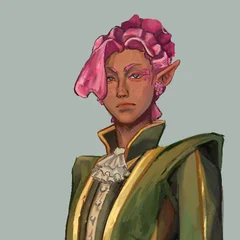
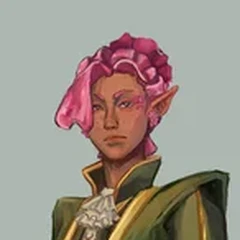
Today card themed per character with its own bubble shape; random special moves; Binko bumps the speaker on Start; centered face shots with room around glows
Claude-Session: https://claude.ai/code/session_01MgyEN5Y9kzfVBp6PVUZ3oZ

diff --git a/index.html b/index.html
@@ -320,7 +320,6 @@ details>summary{cursor:pointer}
 .c-green .cface{animation:cl-breathe 4.2s ease-in-out infinite}
 .c-green .cface .art.face{border-color:#c9a24a}
 .c-green .fx{inset:-7px;border-radius:50%;border:2px solid rgba(240,200,90,.55);animation:cl-halo 4.2s ease-in-out infinite}
-.c-green .bubble{background:#1d3626;color:#ece8d6;border-color:#c9a24a;box-shadow:0 3px 0 #0c1a12}.c-green .bubble .who{color:#c99be0}.c-green .bubble b{color:#f0d27a}
 @keyframes cl-breathe{0%,100%{transform:scale(1)}40%{transform:scale(1.05)}82%{transform:scale(1)}86%{transform:scale(1.03) rotate(-3deg)}90%{transform:scale(1) rotate(2deg)}94%{transform:rotate(0)}}
 @keyframes cl-halo{0%,100%{opacity:.35;transform:scale(.96)}45%{opacity:1;transform:scale(1.04)}}
 /* Ollie: fire. Flickering glow and embers rising off him */
@@ -328,14 +327,12 @@ details>summary{cursor:pointer}
 .c-ollie .cface .art.face{border-color:#e8833a}
 .c-ollie .fx,.c-ollie .fx2{bottom:4px;width:10px;height:14px;border-radius:50% 50% 50% 50%/60% 60% 40% 40%;background:radial-gradient(circle at 50% 70%,#ffe08a,#ff8a2b 55%,rgba(230,60,30,0) 72%);z-index:2;animation:cl-ember 1.7s ease-out infinite}
 .c-ollie .fx{left:8px}.c-ollie .fx2{right:6px;animation-delay:.8s;width:8px;height:11px}
-.c-ollie .bubble{background:linear-gradient(160deg,#4a1418,#2c0d10);color:#f8e8dc;border-color:#e0a63e;box-shadow:0 3px 0 #170506,0 0 18px rgba(255,120,40,.18)}.c-ollie .bubble .who{color:#f49ac1}.c-ollie .bubble b{color:#ffc46b}
 @keyframes cl-flicker{0%,100%{filter:drop-shadow(0 0 4px rgba(255,140,40,.5))}30%{filter:drop-shadow(0 0 10px rgba(255,90,30,.8))}55%{filter:drop-shadow(0 0 5px rgba(255,170,60,.55))}75%{filter:drop-shadow(0 0 12px rgba(255,110,30,.85))}}
 @keyframes cl-ember{0%{opacity:0;transform:translateY(0) scale(.6)}15%{opacity:1}100%{opacity:0;transform:translateY(-58px) translateX(6px) scale(.2)}}
 /* Quickare: tips his top hat, and his monocle catches the light */
 .c-quickare .cface{animation:cl-tip 3s ease-in-out infinite;transform-origin:50% 90%}
 .c-quickare .cface .art.face{border-color:#a3263a}
 .c-quickare .fx{left:20px;top:38%;color:#fff6c8;font-style:normal;font-size:13px;z-index:2;opacity:0;animation:cl-glint 3s ease-in-out infinite}.c-quickare .fx::before{content:'✦'}
-.c-quickare .bubble{background:#1e4532;color:#f3ecd8;border-color:#a3263a;box-shadow:0 3px 0 #5e1220}.c-quickare .bubble .who{color:#fff;background:#a3263a;display:table;padding:1px 7px;border-radius:6px;margin-bottom:4px}.c-quickare .bubble b{color:#f2c94c}
 @keyframes cl-tip{0%,60%,100%{transform:rotate(0)}68%{transform:rotate(-10deg) translateY(-3px)}78%{transform:rotate(4deg)}86%{transform:rotate(0)}}
 @keyframes cl-glint{0%,40%,100%{opacity:0;transform:scale(.4)}48%{opacity:1;transform:scale(1.3) rotate(45deg)}56%{opacity:0;transform:scale(.4)}}
 /* Penn: the Echo Bound. His mask leaves a fading echo of itself */
@@ -343,7 +340,6 @@ details>summary{cursor:pointer}
 .c-penn .cface .art.face{border-color:#2a1f1a}
 .c-penn .fx,.c-penn .fx2{inset:0;border-radius:50%;background:var(--face) center/cover;z-index:0;opacity:0;animation:cl-echo 3.6s ease-out infinite}
 .c-penn .fx2{animation-delay:1.8s}
-.c-penn .bubble{background:#ece6da;color:#221a16;border-color:#2a1f1a;box-shadow:0 3px 0 #2a1f1a;border-left:5px solid #8e2b2b}.c-penn .bubble .who{color:#8e2b2b}
 @keyframes cl-still{0%,100%{transform:translateX(0)}50%{transform:translateX(1px)}}
 @keyframes cl-echo{0%{opacity:.5;transform:translate(0,0) scale(1)}100%{opacity:0;transform:translate(16px,-6px) scale(1.12)}}
 /* Captain Triton: rocks like a ship, pipe smoke curling up */
@@ -351,17 +347,134 @@ details>summary{cursor:pointer}
 .c-triton .cface .art.face{border-color:#b08d57}
 .c-triton .fx,.c-triton .fx2{right:4px;top:4px;width:18px;height:18px;border-radius:50%;background:radial-gradient(circle,rgba(150,220,150,.55),rgba(120,190,120,0) 68%);z-index:2;animation:cl-smoke 3.4s ease-out infinite}
 .c-triton .fx2{animation-delay:1.7s;right:10px}
-.c-triton .bubble{background:#27302d;color:#e6e3d6;border-color:#b08d57;box-shadow:0 3px 0 #121816}.c-triton .bubble .who{color:#9fd39b}.c-triton .bubble b{color:#e0bf86}
 @keyframes cl-sway{0%,100%{transform:rotate(-3deg)}50%{transform:rotate(3deg)}}
 @keyframes cl-smoke{0%{opacity:0;transform:translate(0,0) scale(.5)}20%{opacity:.9}100%{opacity:0;transform:translate(-14px,-44px) scale(2.2)}}
 /* Cat: hop, hop, hop on three legs, then a rest */
 .c-cat .cface{animation:cl-hop 2s ease-in-out infinite}
 .c-cat .cface .art.face{border-color:#e8e0cc;background:#6b5240}
 .c-cat .fx{left:50%;bottom:-2px;width:30px;height:8px;margin-left:-15px;border-radius:50%;background:radial-gradient(ellipse,rgba(220,200,170,.6),rgba(220,200,170,0) 70%);z-index:0;animation:cl-dust 2s ease-out infinite}
-.c-cat .bubble{background:#5c4636;color:#f6efe0;border-color:#e8e0cc;box-shadow:0 3px 0 #2e2219}.c-cat .bubble .who{color:#f0e6cf}.c-cat .bubble b{color:#ffd9a0}
 @keyframes cl-hop{0%,75%,100%{transform:translateY(0) rotate(0)}10%{transform:translateY(-10px) rotate(-6deg)}20%{transform:translateY(0) rotate(2deg)}32%{transform:translateY(-10px) rotate(-6deg)}42%{transform:translateY(0) rotate(2deg)}54%{transform:translateY(-10px) rotate(-6deg)}64%{transform:translateY(0) rotate(3deg)}}
 @keyframes cl-dust{0%,18%,40%,62%,100%{opacity:0;transform:scale(.6)}20%,42%,64%{opacity:1;transform:scale(1)}}
 @media (prefers-reduced-motion:reduce){.clover .cface,.clover .cface i{animation:none!important}.clover .cface i{display:none}}
+
+/* ---------- the Today card takes on the look of whoever is talking ---------- */
+.clover{align-items:center}.clover .cface{align-self:center}
+.hero-guide .guide.clover::before{display:none}
+.hero.h-binko,.hero.h-green,.hero.h-ollie,.hero.h-quickare,.hero.h-penn,.hero.h-triton,.hero.h-cat{background:var(--hbg);border-color:var(--hbd);transition:background .4s,border-color .4s}
+.hero[class*=" h-"]::before{background:var(--hstripe);height:6px}
+.hero[class*=" h-"] .btn{background:var(--hbtn);color:var(--hink);box-shadow:0 3px 0 var(--hshadow);border:var(--hbtnbd,0)}
+.hero[class*=" h-"] .label{color:var(--hlabel)}
+.hero[class*=" h-"] .hero-foot{border-top-color:var(--hline);color:var(--hlabel)}
+.hero[class*=" h-"] .bubble .who{margin-bottom:4px}
+/* Binko: a toy robot's screen panel, with rivets in the corners */
+.hero.h-binko{--hbg:linear-gradient(160deg,#1e5550,#163c38 70%);--hbd:#2c6a62;--hstripe:var(--iri);--hbtn:var(--iri);--hink:#1a1a12;--hshadow:#9a5a3a;--hlabel:var(--muted);--hline:#2c6a62}
+.c-binko .bubble{border-radius:18px;border:3px solid #2a9e8c;padding:12px 16px;background:radial-gradient(circle at 9px 9px,#2a9e8c 2.5px,transparent 3.5px),radial-gradient(circle at calc(100% - 9px) 9px,#2a9e8c 2.5px,transparent 3.5px),radial-gradient(circle at 9px calc(100% - 9px),#2a9e8c 2.5px,transparent 3.5px),radial-gradient(circle at calc(100% - 9px) calc(100% - 9px),#2a9e8c 2.5px,transparent 3.5px),#f6f3e6;box-shadow:0 4px 0 #13403a}
+/* Big Green: a big, rounded, scaly hide, gold trim and a purple-scarf stripe */
+.hero.h-green{--hbg:radial-gradient(circle at 85% 0,rgba(201,162,74,.16),transparent 45%),linear-gradient(160deg,#25472f,#132619 75%);--hbd:#8a7232;--hstripe:linear-gradient(90deg,#c9a24a,#8e5bb0 40%,#8e5bb0 60%,#c9a24a);--hbtn:linear-gradient(180deg,#e2c06a,#b98c30);--hink:#1d1407;--hshadow:#5e4412;--hlabel:#a9c3a0;--hline:#3b5a3c}
+.c-green .bubble{border-radius:34px 30px 38px 14px/30px 36px 30px 14px;border:3px solid #c9a24a;padding:14px 18px;color:#ece8d6;background:radial-gradient(circle at 10px 10px,rgba(255,255,255,.035) 7px,transparent 8px) 0 0/22px 18px,radial-gradient(circle at 21px 19px,rgba(255,255,255,.035) 7px,transparent 8px) 0 0/22px 18px,#1d3626;box-shadow:0 5px 0 #0c1a12}
+.c-green .bubble .who{color:#c99be0}.c-green .bubble b{color:#f0d27a}
+/* Ollie: an oleander petal, glowing like an ember */
+.hero.h-ollie{--hbg:radial-gradient(circle at 90% 100%,rgba(255,120,40,.22),transparent 50%),linear-gradient(160deg,#4d1a1e,#250b0e 75%);--hbd:#9b4a2a;--hstripe:linear-gradient(90deg,#ff6a2b,#ffc65c 45%,#f49ac1);--hbtn:linear-gradient(90deg,#ff7e3a,#ffc35c);--hink:#2a0a05;--hshadow:#7c2410;--hlabel:#e9b7a8;--hline:#5e2a26}
+.hero.h-ollie .btn{box-shadow:0 3px 0 #7c2410,0 0 18px rgba(255,140,50,.35)}
+.c-ollie .bubble{border-radius:6px 40px 6px 40px;border:2px solid #e0a63e;padding:14px 20px;color:#f8e8dc;background:linear-gradient(160deg,#5a1a1e,#2c0d10);box-shadow:0 4px 0 #170506,0 0 22px rgba(255,120,40,.2)}
+.c-ollie .bubble .who{color:#f49ac1}.c-ollie .bubble b{color:#ffc46b}
+/* Quickare: a fancy gilded nameplate, the way a hill dwarf imagines nobility */
+.hero.h-quickare{--hbg:radial-gradient(circle at 0 0,rgba(217,180,90,.14),transparent 40%),linear-gradient(160deg,#245039,#14301f 75%);--hbd:#b5944a;--hstripe:repeating-linear-gradient(135deg,#d9b45a 0 8px,#245039 8px 16px);--hbtn:linear-gradient(180deg,#2e6a4c,#1d4a33);--hink:#f6e6b8;--hshadow:#0e2418;--hbtnbd:2px solid #d9b45a;--hlabel:#b9cfa9;--hline:#3c6a4c}
+.c-quickare .cface .art.face{border-color:#d9b45a}
+.c-quickare .bubble{position:relative;border-radius:8px;border:4px double #d9b45a;padding:14px 20px;color:#f3ecd8;background:linear-gradient(180deg,rgba(255,255,255,.04),transparent 40%),#1c4230;box-shadow:0 4px 0 #0c2216}
+.c-quickare .bubble::before,.c-quickare .bubble::after{content:'❦';position:absolute;color:#d9b45a;font-size:14px;line-height:1}
+.c-quickare .bubble::before{left:5px;top:3px;transform:scaleX(-1)}.c-quickare .bubble::after{right:5px;bottom:3px;transform:rotate(180deg) scaleX(-1)}
+.c-quickare .bubble .who{color:#1c3a2a;background:linear-gradient(180deg,#f0d27a,#c9a24a);display:table;padding:1px 10px;border-radius:4px;letter-spacing:.06em}.c-quickare .bubble b{color:#f2c94c}
+/* Penn: a torn page from his journal to Nigel, lined, with a red margin */
+.hero.h-penn{--hbg:linear-gradient(160deg,#2c241e,#14100d 75%);--hbd:#5a4836;--hstripe:linear-gradient(90deg,#c9b58c,#8e2b2b 50%,#c9b58c);--hbtn:linear-gradient(180deg,#efe8d6,#cfc4a8);--hink:#221a16;--hshadow:#5e1d1d;--hlabel:#a99b86;--hline:#3e342b}
+.c-penn .bubble{border:0;border-radius:2px;padding:14px 18px 22px 30px;color:#221a16;background:linear-gradient(90deg,transparent 20px,rgba(142,43,43,.55) 20px 22px,transparent 22px),repeating-linear-gradient(180deg,transparent 0 23px,rgba(60,80,110,.18) 23px 24px),#ece6da;box-shadow:0 4px 0 #0d0a08;clip-path:polygon(0 0,100% 0,100% calc(100% - 8px),94% 100%,86% calc(100% - 7px),77% 100%,66% calc(100% - 6px),55% 100%,44% calc(100% - 8px),33% 100%,22% calc(100% - 6px),11% 100%,0 calc(100% - 7px))}
+.c-penn .bubble .who{color:#8e2b2b;font-style:italic}
+/* Captain Triton: a brass ship's plaque with a rope border, green smoke drifting through */
+.hero.h-triton{--hbg:radial-gradient(circle at 12% 30%,rgba(120,190,120,.14),transparent 40%),linear-gradient(160deg,#28322f,#121816 75%);--hbd:#8a6d42;--hstripe:repeating-linear-gradient(-45deg,#c9a46a 0 5px,#7a5d33 5px 10px);--hbtn:linear-gradient(180deg,#dcbb82,#a8834a);--hink:#1d1a12;--hshadow:#4f3b1d;--hlabel:#a8b8a6;--hline:#36423d}
+.c-triton .bubble{border-radius:20px;border:3px solid #b08d57;outline:2px dashed rgba(201,164,106,.55);outline-offset:-9px;padding:16px 20px;color:#e6e3d6;background:#27302d;box-shadow:0 4px 0 #0c100f}
+.c-triton .bubble .who{color:#9fd39b}.c-triton .bubble b{color:#e0bf86}
+/* Cat: a soft, shaggy, cloud-round bubble with little hoofprints */
+.hero.h-cat{--hbg:linear-gradient(160deg,#5c4535,#33251b 75%);--hbd:#9c8466;--hstripe:repeating-linear-gradient(90deg,#efe6d2 0 14px,transparent 14px 24px);--hbtn:linear-gradient(180deg,#f6eedc,#dccdaa);--hink:#3a2b20;--hshadow:#20160f;--hlabel:#d4c3a8;--hline:#6a5340}
+.c-cat .bubble{position:relative;border-radius:36px 36px 36px 14px;border:3px solid #e8e0cc;padding:14px 22px 18px;color:#f6efe0;background:radial-gradient(circle at 20% 0,rgba(255,255,255,.07),transparent 50%),#6a5241;box-shadow:0 4px 0 #2e2219}
+.c-cat .bubble::after{content:'ᐢ ᐢ  ᐢ ᐢ';position:absolute;right:16px;bottom:3px;font-size:10px;letter-spacing:1px;color:rgba(232,224,204,.55)}
+.c-cat .bubble .who{color:#f0e6cf}.c-cat .bubble b{color:#ffd9a0}
+
+/* ---------- spacing: every face keeps clear of its bubble, halos and glows included ---------- */
+.clover{gap:24px}.clover .cface{margin:12px 2px 12px 12px}
+.c-green .fx{inset:-6px}
+/* livelier Quickare idle: a jaunty bob and his hat-tip */
+.c-quickare .cface{animation:cl-tip 3s ease-in-out infinite,cl-jaunt 1.5s ease-in-out infinite}
+@keyframes cl-jaunt{0%,100%{translate:0 0}50%{translate:0 -3px}}
+/* ---------- special moves ---------- */
+.cface .pt{position:absolute;left:50%;top:50%;z-index:3;font-style:normal;font-weight:700;font-size:16px;line-height:1;pointer-events:none;opacity:0;animation:pt-burst 1.1s ease-out forwards}
+@keyframes pt-burst{0%{opacity:0;transform:translate(-50%,-50%) scale(.3)}15%{opacity:1}100%{opacity:0;transform:translate(calc(-50% + var(--dx)),calc(-50% + var(--dy))) rotate(var(--r)) scale(1.1)}}
+.pt.rainbow:nth-child(6n+1){color:#ff6b6b}.pt.rainbow:nth-child(6n+2){color:#ffb347}.pt.rainbow:nth-child(6n+3){color:#f0e278}.pt.rainbow:nth-child(6n+4){color:#7ee08a}.pt.rainbow:nth-child(6n+5){color:#6cc4ee}.pt.rainbow:nth-child(6n){color:#c58cf2}
+.pt.note{color:#f2a7c3;font-size:18px}.pt.note.sea{color:#9fd39b}.pt.heal{color:#7ee08a;text-shadow:0 0 6px #7ee08a}.pt.gold{color:#f0d27a}
+.pt.surge:nth-child(3n){color:#ff7ad9}.pt.surge:nth-child(3n+1){color:#7af0ff}.pt.surge:nth-child(3n+2){color:#ffd36b}
+.pt.fire{font-size:15px}.pt.petal{color:#f7a8c8;font-size:15px;animation-duration:1.6s}.pt.flash{color:#fff3a8;font-size:22px;text-shadow:0 0 10px #ffd84a;animation-duration:.45s}
+.popword{position:absolute;left:50%;top:-6px;z-index:4;font-family:var(--f-display);font-weight:800;font-size:17px;white-space:nowrap;pointer-events:none;animation:pop-word 1.2s ease-out forwards}
+.popword.green{color:#f0d27a;text-shadow:0 2px 0 #1d3626}.popword.bang{color:#ffd84a;text-shadow:0 2px 0 #7a2a12}.popword.cat{color:#f6efe0;text-shadow:0 2px 0 #3a2b20}
+@keyframes pop-word{0%{opacity:0;transform:translate(-50%,10px) scale(.4) rotate(-8deg)}20%{opacity:1;transform:translate(-50%,-6px) scale(1.2) rotate(4deg)}70%{opacity:1;transform:translate(-50%,-10px) scale(1)}100%{opacity:0;transform:translate(-50%,-18px)}}
+/* Binko */
+.cface.sp-rainbow .art.face{animation:sp-hue 1.6s linear}
+@keyframes sp-hue{0%{filter:hue-rotate(0) saturate(1.4)}100%{filter:hue-rotate(360deg) saturate(1)}}
+.rainbow-ring{position:absolute;inset:-4px;border-radius:50%;z-index:0;background:conic-gradient(#ff6b6b,#ffb347,#f0e278,#7ee08a,#6cc4ee,#c58cf2,#ff6b6b);-webkit-mask:radial-gradient(circle,transparent 60%,#000 62%);mask:radial-gradient(circle,transparent 60%,#000 62%);animation:rr 1.6s ease-out forwards}
+@keyframes rr{0%{transform:scale(.8) rotate(0);opacity:0}20%{opacity:1}100%{transform:scale(1.25) rotate(360deg);opacity:0}}
+.cface.sp-spin{animation:sp-spin .9s cubic-bezier(.3,1.4,.5,1)!important}
+@keyframes sp-spin{0%{transform:translateY(0) rotate(0)}40%{transform:translateY(-16px) rotate(200deg) scale(1.1)}80%{transform:translateY(0) rotate(360deg) scale(1.1,.88)}100%{transform:rotate(360deg) scale(1)}}
+.cface.sp-dj{animation:sp-bop .4s ease-in-out 4!important}
+@keyframes sp-bop{0%,100%{transform:translateY(0) rotate(0)}50%{transform:translateY(-6px) rotate(6deg)}}
+/* Big Green */
+.cface.sp-chomp{animation:sp-chomp .9s ease-in-out!important}
+@keyframes sp-chomp{0%{transform:scale(1)}25%{transform:scale(1.15,.9) translateX(6px)}40%{transform:scale(.92,1.08)}55%{transform:scale(1.15,.9) translateX(6px)}75%,100%{transform:scale(1)}}
+.cface.sp-heal .art.face{animation:sp-healglow 1.5s ease-in-out}
+@keyframes sp-healglow{50%{box-shadow:0 0 0 4px rgba(126,224,138,.5),0 0 18px #7ee08a}}
+.cface.sp-evolve{animation:sp-evolve 1.3s ease-in-out!important}
+@keyframes sp-evolve{0%,100%{transform:scale(1);filter:none}40%{transform:scale(1.18);filter:brightness(1.6) drop-shadow(0 0 10px #f0d27a)}60%{transform:scale(1.12)}}
+/* Ollie */
+.cface.sp-surge .art.face{animation:sp-surge 1.2s steps(6)}
+@keyframes sp-surge{0%{filter:hue-rotate(0)}20%{filter:hue-rotate(120deg) saturate(2)}40%{filter:hue-rotate(250deg) invert(.15)}60%{filter:hue-rotate(60deg) saturate(2)}80%{filter:hue-rotate(300deg)}100%{filter:none}}
+.cface.sp-surge{animation:sp-shake .12s linear 8!important}
+.cface.sp-flare{animation:sp-flare 1.4s ease-in-out!important}
+@keyframes sp-flare{0%,100%{filter:drop-shadow(0 0 4px rgba(255,140,40,.5))}45%{filter:drop-shadow(0 0 22px #ff7a2b) drop-shadow(0 0 8px #ffd36b);transform:scale(1.08)}}
+.cface.sp-petals{animation:sp-twirl 1.7s ease-in-out!important}
+@keyframes sp-twirl{0%,100%{transform:rotate(0)}30%{transform:rotate(-12deg)}60%{transform:rotate(10deg)}}
+@keyframes sp-shake{0%,100%{transform:translate(0,0)}25%{transform:translate(-3px,1px)}75%{transform:translate(3px,-1px)}}
+/* Quickare */
+.cface.sp-quickdraw{animation:sp-draw 1s cubic-bezier(.2,1.3,.4,1)!important}
+@keyframes sp-draw{0%{transform:rotate(0)}40%{transform:rotate(-720deg) scale(.9)}50%{transform:rotate(-720deg) scale(1.15)}60%{transform:rotate(-712deg) translateX(-6px)}100%{transform:rotate(-720deg)}}
+.cface .hat{position:absolute;left:50%;top:0;z-index:4;font-style:normal;font-size:26px;pointer-events:none;animation:sp-hat 1.3s cubic-bezier(.3,.7,.4,1) forwards}
+@keyframes sp-hat{0%{transform:translate(-50%,0) rotate(0)}45%{transform:translate(-50%,-60px) rotate(540deg)}90%{transform:translate(-50%,-4px) rotate(720deg);opacity:1}100%{transform:translate(-50%,0) rotate(720deg);opacity:0}}
+.cface.sp-fan{animation:sp-recoil .22s ease-out 3 .1s!important}
+@keyframes sp-recoil{0%{transform:translateX(0) rotate(0)}30%{transform:translateX(-7px) rotate(-6deg)}100%{transform:translateX(0) rotate(0)}}
+/* Penn */
+.cface.sp-flip{animation:sp-flip 1.1s ease-in-out!important}
+@keyframes sp-flip{0%{transform:perspective(300px) rotateY(0)}50%{transform:perspective(300px) rotateY(180deg) scale(.9);filter:brightness(.3)}100%{transform:perspective(300px) rotateY(360deg)}}
+.cface .ghost{position:absolute;inset:0;border-radius:50%;background:var(--face) center/cover;z-index:0;opacity:0;animation:sp-ghost 1.5s ease-out forwards}
+@keyframes sp-ghost{0%{opacity:.6;transform:rotate(var(--a)) translateX(0) rotate(calc(-1*var(--a)))}100%{opacity:0;transform:rotate(var(--a)) translateX(34px) rotate(calc(-1*var(--a))) scale(.9)}}
+.cface.sp-shadow{animation:sp-shadow 1.5s ease-in-out!important}
+@keyframes sp-shadow{0%,100%{opacity:1;filter:none;transform:scale(1)}40%,55%{opacity:.08;filter:blur(4px) brightness(0);transform:scale(.85)}}
+/* Captain Triton */
+.cface .smokering{position:absolute;left:50%;top:10%;width:22px;height:12px;margin-left:-11px;border-radius:50%;border:3px solid rgba(150,220,150,.7);z-index:3;opacity:0;animation:sp-ring 1.6s ease-out forwards}
+@keyframes sp-ring{0%{opacity:0;transform:translateY(0) scale(.5)}20%{opacity:1}100%{opacity:0;transform:translateY(-60px) scale(2.4)}}
+.cface.sp-song{animation:sp-dance .85s ease-in-out 2!important}
+@keyframes sp-dance{0%,100%{transform:rotate(-8deg)}50%{transform:rotate(8deg) translateY(-4px)}}
+.cface.sp-glitch .art.face{animation:sp-glitch .9s steps(2)}
+@keyframes sp-glitch{0%{transform:translate(0);filter:none}15%{transform:translate(-4px,1px);filter:hue-rotate(90deg) contrast(1.6);clip-path:inset(10% 0 40% 0 round 50%)}30%{transform:translate(4px,-1px);clip-path:inset(50% 0 5% 0 round 50%)}45%{transform:translate(-2px,0);filter:saturate(3) hue-rotate(-60deg);clip-path:none}60%{transform:translate(3px,2px);clip-path:inset(30% 0 30% 0 round 50%)}75%,100%{transform:none;filter:none;clip-path:none}}
+/* Cat */
+.cface.sp-leap{animation:sp-leap 1s cubic-bezier(.3,.6,.4,1)!important}
+@keyframes sp-leap{0%{transform:translateY(0) rotate(0)}15%{transform:scale(1.1,.85)}55%{transform:translateY(-34px) rotate(-360deg)}85%{transform:translateY(0) rotate(-360deg) scale(1.1,.85)}100%{transform:rotate(-360deg)}}
+.cface.sp-bleat{animation:sp-shake .1s linear 6!important}
+.cface.sp-headbutt{animation:sp-butt 1s ease-in-out!important}
+@keyframes sp-butt{0%{transform:translateX(0) rotate(0)}25%{transform:translateX(-8px) rotate(-10deg)}40%{transform:translateX(16px) rotate(8deg)}55%{transform:translateX(-4px)}100%{transform:none}}
+/* ---------- Start: Binko zooms in and bumps the speaker away ---------- */
+.binko-run{position:fixed;left:-120px;width:96px;height:96px;object-fit:contain;z-index:200;pointer-events:none;animation:br-run .34s cubic-bezier(.5,0,.8,.6) forwards}
+.binko-run.hit{animation:br-hit .38s ease-out forwards}
+@keyframes br-run{0%{transform:translateX(0) rotate(14deg)}100%{transform:translateX(calc(var(--to) + 120px)) rotate(14deg)}}
+@keyframes br-hit{0%{transform:translateX(calc(var(--to) + 120px)) rotate(14deg) scale(1.1,.9)}40%{transform:translateX(calc(var(--to) + 90px)) rotate(-6deg) scale(1)}100%{transform:translateX(calc(var(--to) + 110px)) rotate(0) scale(1.05)}}
+.cface.bumped{animation:bumped .4s cubic-bezier(.2,.7,.3,1) forwards!important}
+@keyframes bumped{0%{transform:translate(0,0) rotate(0)}100%{transform:translate(110vw,-80px) rotate(540deg);opacity:.9}}
+@media (prefers-reduced-motion:reduce){.cface .pt,.cface .popword,.cface .hat,.cface .ghost,.cface .smokering,.rainbow-ring{display:none}}
 </style>
 <style>
 /* ---------- tabs layout (Today / Practice / Progress / Me) ---------- */

diff --git a/cast.js b/cast.js
@@ -45,11 +45,11 @@ const CLOVER_FACTS = {"green": ["Big Green tells a holy story. In 1565, a Spanis
 const CLOVER_STYLE = {
   binko: { tag: '⍢ Binko-SR157 🔧', face: 'icon-192.png?v=full' },
   green: { tag: '🐊 Big Green', face: 'img/green-face.webp' },
-  ollie: { tag: '🔥 Ollie', face: 'img/ollie-face.webp' },
-  quickare: { tag: '🎩 Quickare', face: 'img/quickare-face.webp' },
-  penn: { tag: '🎭 Penn', face: 'img/penn-face.webp' },
-  triton: { tag: '⚓ Captain Triton', face: 'img/triton-face.webp' },
-  cat: { tag: '🐐 Cat', face: 'img/cat-face.webp' }
+  ollie: { tag: '🔥 Ollie', face: 'img/ollie-face.webp?v=4' },
+  quickare: { tag: '🎩 Quickare', face: 'img/quickare-face.webp?v=4' },
+  penn: { tag: '🎭 Penn', face: 'img/penn-face.webp?v=4' },
+  triton: { tag: '⚓ Captain Triton', face: 'img/triton-face.webp?v=4' },
+  cat: { tag: '🐐 Cat', face: 'img/cat-face.webp?v=4' }
 };
 const FACT_WHO = Object.keys(CLOVER_FACTS);
 function lsGet(k, d) { try { const v = JSON.parse(localStorage.getItem(k)); return v == null ? d : v; } catch (e) { return d; } }
@@ -94,7 +94,73 @@ const CHEERS = {
 };
 const castImg = (k, cls = '') => { const c = CAST[k]; return `<img class="art ${c.cut ? 'cut' : 'framed'} ${cls}" src="${c.img}" alt="${c.name}">`; };
 // cameos use a face-and-shoulders crop so the character is easy to see at small sizes
-const castFace = k => `<img class="face" src="img/${k}-face.webp" alt="${CAST[k].name}" width="72" height="72">`;
+const castFace = k => `<img class="face" src="img/${k}-face.webp?v=4" alt="${CAST[k].name}" width="72" height="72">`;
 const pickLine = kind => CHEERS[kind][Math.floor(Math.random() * CHEERS[kind].length)];
 function cameoHtml(kind) { const [k, line] = pickLine(kind); return `<div class="cameo">${castFace(k)}<div><div class="who">${CAST[k].name}</div><div class="line">${line}</div></div></div>`; }
 function binkoSays(text, big) { return `<div class="guide ${big ? 'big' : ''}"><img class="art face" src="icon-192.png?v=full" alt="Binko-SR157"><div class="bubble"><span class="who">⍢ Binko-SR157 🔧</span>${text}</div></div>`; }
+
+/* ---------- special moves: every few seconds the speaker on Today does something big, picked at random ---------- */
+const SPECIALS = {
+  binko: ['rainbow', 'spin', 'dj'],
+  green: ['chomp', 'heal', 'evolve'],
+  ollie: ['surge', 'flare', 'petals'],
+  quickare: ['quickdraw', 'hattoss', 'fan'],
+  penn: ['flip', 'echoes', 'shadow'],
+  triton: ['rings', 'song', 'glitch'],
+  cat: ['leap', 'bleat', 'headbutt']
+};
+const SP_LEN = { rainbow: 1600, spin: 900, dj: 1600, chomp: 900, heal: 1500, evolve: 1300, surge: 1200, flare: 1400, petals: 1700, quickdraw: 1000, hattoss: 1300, fan: 1100, flip: 1100, echoes: 1500, shadow: 1500, rings: 1800, song: 1700, glitch: 900, leap: 1000, bleat: 1100, headbutt: 1000 };
+function spawnFx(host, ch, n, cls, spread) {
+  for (let i = 0; i < n; i++) {
+    const e = document.createElement('b'); e.className = 'pt ' + (cls || ''); e.textContent = ch[i % ch.length];
+    const a = spread === 'up' ? (-Math.PI / 2 + (Math.random() - .5) * 1.4) : Math.random() * Math.PI * 2, d = 40 + Math.random() * 40;
+    e.style.setProperty('--dx', Math.cos(a) * d + 'px'); e.style.setProperty('--dy', Math.sin(a) * d + 'px'); e.style.setProperty('--r', (Math.random() * 120 - 60) + 'deg');
+    e.style.animationDelay = (i * (spread === 'seq' ? 220 : 60)) + 'ms'; host.appendChild(e); setTimeout(() => e.remove(), 2200);
+  }
+}
+function pop(host, text, cls) { const e = document.createElement('b'); e.className = 'popword ' + (cls || ''); e.textContent = text; host.appendChild(e); setTimeout(() => e.remove(), 1300); }
+function doSpecial(face, who, name) {
+  if (!face || face.classList.contains('sp')) return;
+  name = name || pick(SPECIALS[who] || []); if (!name) return;
+  face.classList.add('sp', 'sp-' + name);
+  const F = {
+    rainbow: () => { const r = document.createElement('i'); r.className = 'rainbow-ring'; face.appendChild(r); setTimeout(() => r.remove(), 1600); spawnFx(face, ['✦', '★', '✧'], 8, 'rainbow'); },
+    dj: () => spawnFx(face, ['♪', '♫', '♬'], 7, 'note', 'up'),
+    chomp: () => pop(face, 'CHOMP!', 'green'),
+    heal: () => spawnFx(face, ['✚'], 8, 'heal', 'up'),
+    evolve: () => spawnFx(face, ['✦'], 8, 'gold'),
+    surge: () => spawnFx(face, ['✦', '✸', '❋'], 12, 'surge'),
+    flare: () => spawnFx(face, ['🔥'], 6, 'fire', 'up'),
+    petals: () => spawnFx(face, ['❀', '✿'], 10, 'petal'),
+    quickdraw: () => { setTimeout(() => { pop(face, 'BANG!', 'bang'); spawnFx(face, ['✸'], 5, 'flash'); }, 450); },
+    hattoss: () => { const h = document.createElement('b'); h.className = 'hat'; h.textContent = '🎩'; face.appendChild(h); setTimeout(() => h.remove(), 1300); },
+    fan: () => spawnFx(face, ['✸'], 3, 'flash', 'seq'),
+    echoes: () => { for (let i = 0; i < 4; i++) { const g = document.createElement('i'); g.className = 'ghost'; g.style.setProperty('--a', (i * 90 + 45) + 'deg'); face.appendChild(g); setTimeout(() => g.remove(), 1500); } },
+    rings: () => { for (let i = 0; i < 3; i++) { const g = document.createElement('i'); g.className = 'smokering'; g.style.animationDelay = i * 300 + 'ms'; face.appendChild(g); setTimeout(() => g.remove(), 1900); } },
+    song: () => spawnFx(face, ['♪', '♫'], 6, 'note sea', 'up'),
+    bleat: () => pop(face, 'MEHH!', 'cat'),
+    headbutt: () => setTimeout(() => spawnFx(face, ['✸'], 4, 'flash'), 300)
+  };
+  (F[name] || (() => { }))();
+  setTimeout(() => face.classList.remove('sp', 'sp-' + name), SP_LEN[name] || 1200);
+}
+let spTimer = null;
+function startSpecials() {
+  clearTimeout(spTimer);
+  const loop = (first) => { spTimer = setTimeout(() => { const f = document.querySelector('.hero-guide .cface'), g = f && f.closest('.clover');
+    if (!f || document.hidden || (window.matchMedia && matchMedia('(prefers-reduced-motion: reduce)').matches)) return loop();
+    doSpecial(f, (g.className.match(/c-(\w+)/) || [])[1]); loop(); }, first ? 1800 : 6000 + Math.random() * 4000); };
+  loop(true);
+}
+/* Start on Today: Binko zooms in from the left and bumps whoever is talking off the card, then the session begins */
+function binkoBump(then) {
+  const f = document.querySelector('.hero-guide .cface');
+  if (!f || (window.matchMedia && matchMedia('(prefers-reduced-motion: reduce)').matches)) return then();
+  clearTimeout(spTimer);
+  const r = f.getBoundingClientRect(), self = /c-binko/.test(f.closest('.clover').className);
+  const b = document.createElement('img'); b.src = 'img/binko.webp'; b.alt = ''; b.className = 'binko-run';
+  b.style.top = (r.top + r.height / 2 - 48) + 'px'; b.style.setProperty('--to', (r.left - 30) + 'px');
+  document.body.appendChild(b);
+  setTimeout(() => { if (!self) f.classList.add('bumped'); else f.style.visibility = 'hidden'; b.classList.add('hit'); }, 330);
+  setTimeout(() => { b.remove(); then(); }, 720);
+}

diff --git a/app.js b/app.js
@@ -789,7 +789,7 @@ VIEWS.home = function () {
     ${packState === 'loading' ? `<div class="small">Downloading 225 phrases and 1,002 words with native recordings… <b id="packpct">${packPct}%</b> (about 10 MB, one time only)</div>` : `<div class="small">${packState === 'error' ? "The phrases and recordings didn't download. Check your connection and try again." : 'Phrases and recordings are not loaded yet.'}</div><button class="btn primary" id="packretry">Download phrases and recordings</button>`}
   </section>` : ''}
   <div class="today-grid"><div class="today-main">
-  <section class="hero">
+  <section class="hero h-${HOME_SPK.who}">
     <div class="hero-guide">${cloverSays(HOME_SPK.who, HOME_SPK.who === 'binko' ? binkoPlan() : HOME_SPK.html, true)}</div>
     <div class="hero-text"><div class="label">Karon nga adlaw · Today</div><h2>${nextUp ? esc(nextUp.name) : 'All done today. Padayon!'}</h2>
       <p>${nextUp ? esc(nextUp.k === 'session' ? `About ${mins} minutes · ${due} review${due === 1 ? '' : 's'}, ${nw} new` : nextUp.d) : 'Come back tomorrow, or do another session.'}</p></div>
@@ -804,7 +804,8 @@ VIEWS.home = function () {
     ${done.length ? `<button class="donebar" id="showdone">${I.check}<span>Done: ${esc(done.map(i => i.name.replace("Today's ", '')).join(', '))}</span><b>${showDone ? 'Hide' : 'Show'}</b></button>` : ''}
   </section></div>
   <div class="today-side">${statTrio()}${stageMini()}${boardPanel()}</div></div>`);
-  $('#start').onclick = () => { if (!nextUp) return planDay().session ? go('again') : startSession(); if (nextUp.manual) { tick(nextUp.k); return render(); } nextUp.run(); };
+  $('#start').onclick = () => { if (!nextUp) return planDay().session ? go('again') : binkoBump(startSession); if (nextUp.manual) { tick(nextUp.k); return render(); } binkoBump(() => nextUp.run()); };
+  startSpecials();
   document.querySelectorAll('[data-run]').forEach(b => b.onclick = () => planItems().find(i => i.k === b.dataset.run).run());
   if ($('#showdone')) $('#showdone').onclick = () => { showDone = !showDone; render(); };
   wirePod();

diff --git a/sw.js b/sw.js
@@ -1,5 +1,5 @@
 // Network first for app files so updates arrive; cache as an offline fallback.
-const CACHE = 'padayon-v68';
+const CACHE = 'padayon-v69';
 const SHELL = ['./', 'index.html', 'learn.js', 'mega.js', 'path.js', 'fixes.js', 'pics.js', 'examples.js', 'stories.js', 'music.js', 'cast.js', 'grammar.js', 'real.js', 'app.js', 'geo_lang.js', 'geo.js', 'map.json', 'manifest.webmanifest', 'icon-192.png', 'icon-512.png', 'apple-touch-icon.png'];
 self.addEventListener('install', e => { e.waitUntil(caches.open(CACHE).then(c => c.addAll(SHELL))); self.skipWaiting(); });
 self.addEventListener('activate', e => { e.waitUntil(caches.keys().then(ks => Promise.all(ks.filter(k => k !== CACHE).map(k => caches.delete(k)))).then(() => self.clients.claim())); });
